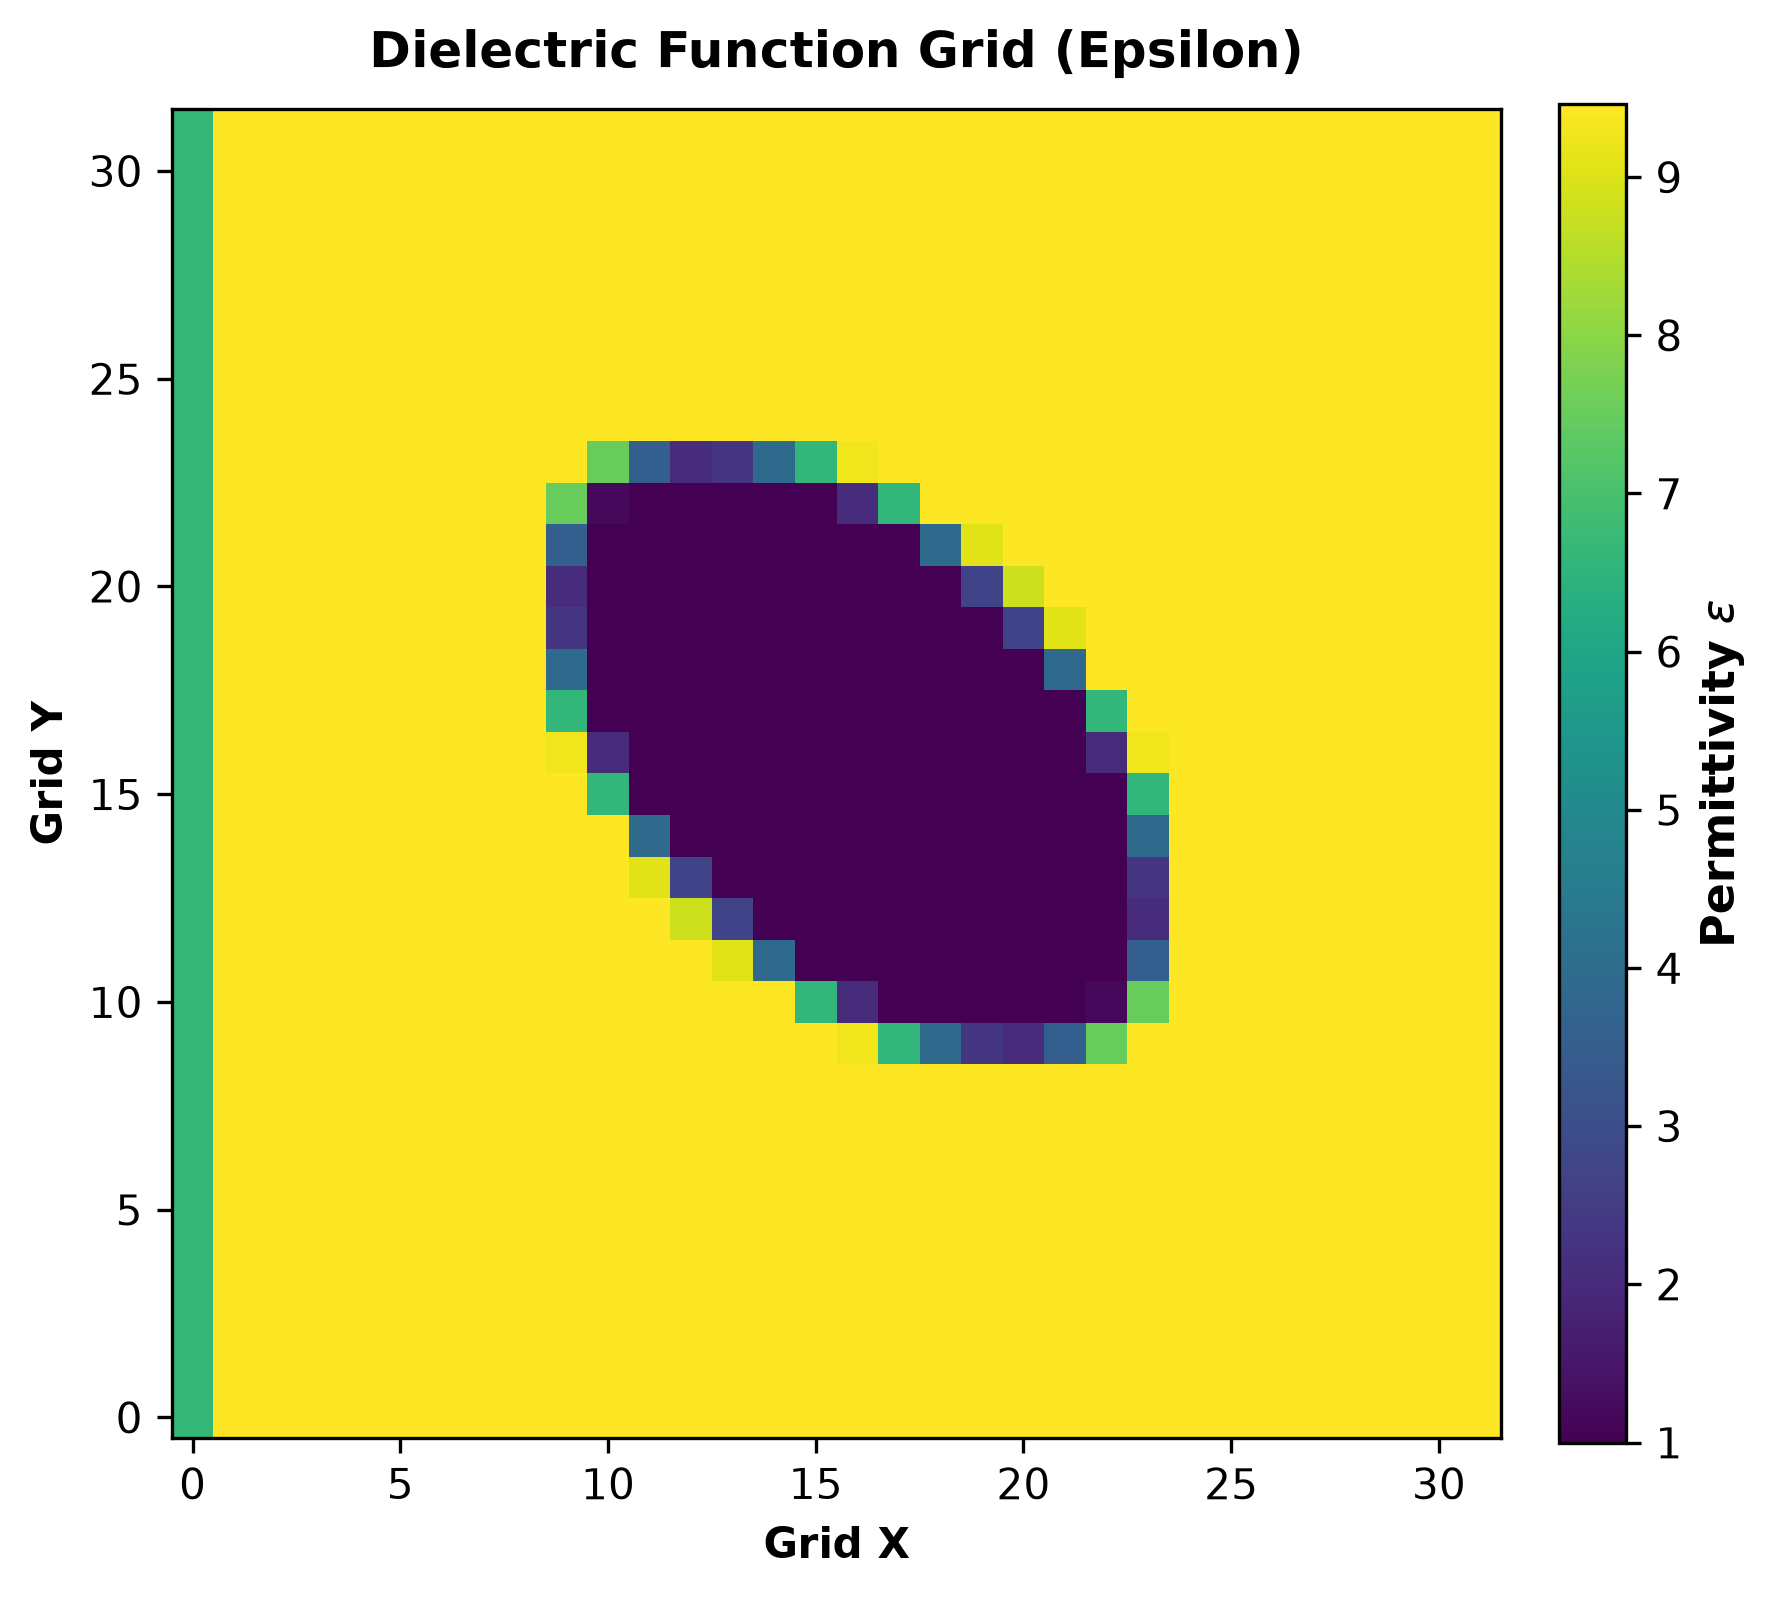
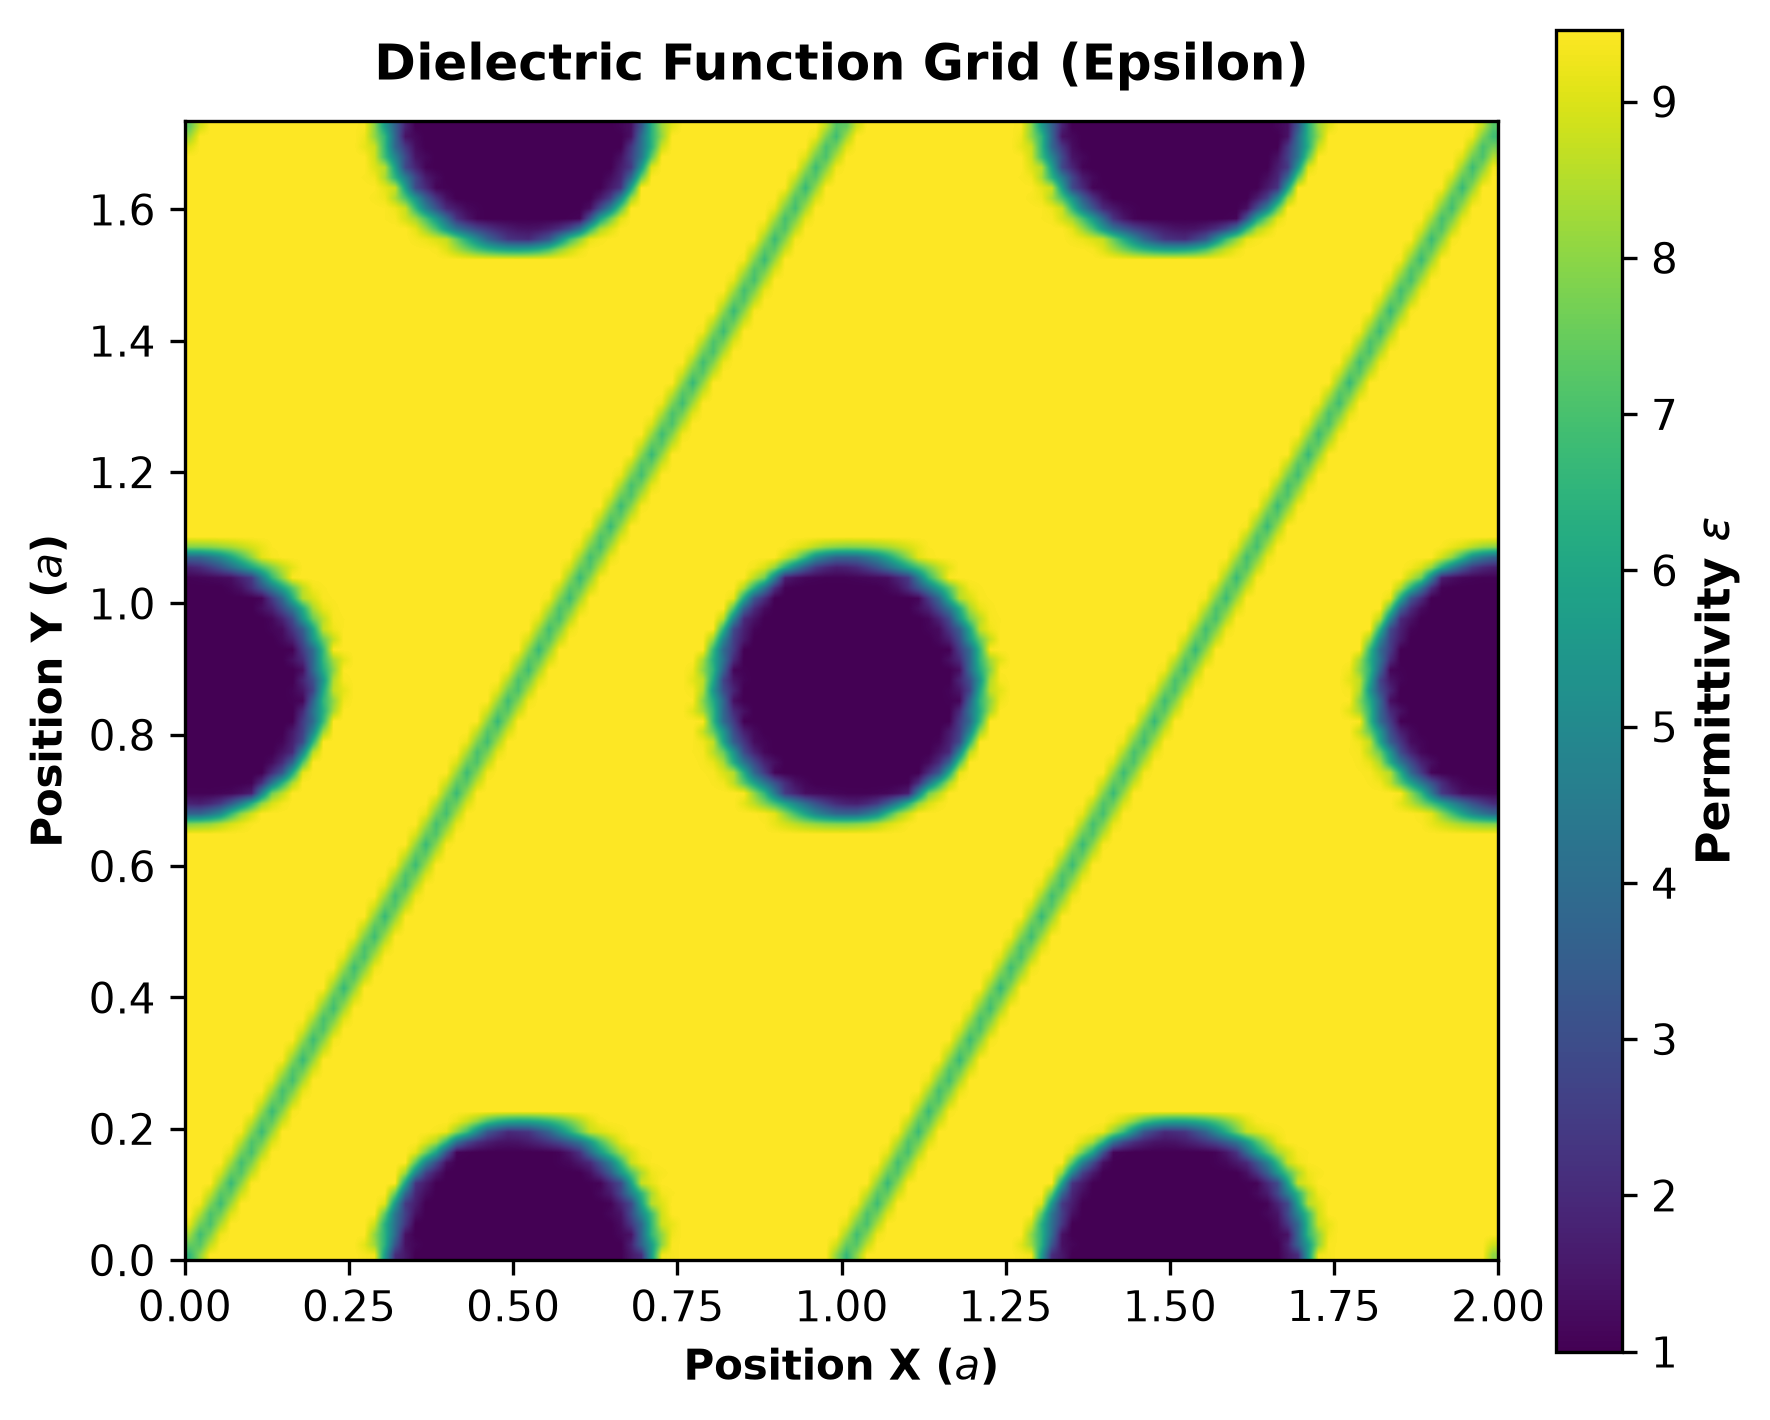
fix(v2): enforce physical Cartesian aspect ratio and 2x2 supercell tiling in plot_epsilon

diff --git a/src/phc_nzi/plotter.py b/src/phc_nzi/plotter.py
@@ -150,6 +150,8 @@ def plot_epsilon(
     output_path: Optional[Union[str, os.PathLike]] = "epsilon_map.png",
     rectify: bool = True,
     resolution: int = 64,
+    periods_x: int = 1,
+    periods_y: int = 1,
     slice_idx: Optional[int] = None,
     cmap: str = "viridis",
     title: str = "Dielectric Function Grid (Epsilon)",
@@ -169,6 +171,10 @@ def plot_epsilon(
         Whether to run mpb-data to geometrically rectify non-orthogonal/hexagonal grids to Cartesian coordinates.
     resolution : int, default 64
         Sampling resolution for grid rectification (grid points per period).
+    periods_x : int, default 1
+        Number of unit cell periods to output along x.
+    periods_y : int, default 1
+        Number of unit cell periods to output along y.
     slice_idx : int, optional
         Z-plane slice index for 3D grids. Defaults to center slice.
     cmap : str, default 'viridis'
@@ -189,12 +195,18 @@ def plot_epsilon(
     if rectify and not h5_file.stem.endswith("-rectified"):
         try:
             from .rectifier import rectify_h5_data
-            h5_file = rectify_h5_data(h5_file, resolution=resolution, rectangular=True)
+            h5_file = rectify_h5_data(
+                h5_file,
+                resolution=resolution,
+                rectangular=True,
+                periods_x=periods_x,
+                periods_y=periods_y
+            )
         except Exception as e:
             print(f"Note: Grid rectification fallback: {e}")
 
     with h5py.File(h5_file, "r") as f:
-        key = list(f.keys())[0]
+        key = "data" if "data" in f else ("epsilon.xx" if "epsilon.xx" in f else list(f.keys())[0])
         data = np.array(f[key])
 
     # Extract 2D slice if 3D array
@@ -207,15 +219,18 @@ def plot_epsilon(
     else:
         raise ValueError(f"Unsupported array dimensions ({data.ndim}D) in HDF5 file")
 
+    Nx, Ny = data_2d.shape
+    extent = [0, periods_x, 0, (Ny / Nx) * periods_x]
+
     fig, ax = plt.subplots(figsize=(6, 5.5), dpi=dpi)
-    im = ax.imshow(data_2d.T, origin="lower", cmap=cmap, interpolation="nearest")
+    im = ax.imshow(data_2d.T, origin="lower", extent=extent, cmap=cmap, interpolation="bilinear", aspect="equal")
 
     cbar = fig.colorbar(im, ax=ax, fraction=0.046, pad=0.04)
     cbar.set_label(r"Permittivity $\epsilon$", fontsize=11, fontweight="bold")
 
     ax.set_title(title, fontsize=12, fontweight="bold", pad=10)
-    ax.set_xlabel("Grid X", fontsize=10, fontweight="bold")
-    ax.set_ylabel("Grid Y", fontsize=10, fontweight="bold")
+    ax.set_xlabel("Position X ($a$)", fontsize=10, fontweight="bold")
+    ax.set_ylabel("Position Y ($a$)", fontsize=10, fontweight="bold")
     fig.tight_layout()
 
     if output_path is not None:

diff --git a/src/phc_nzi/runner.py b/src/phc_nzi/runner.py
@@ -135,11 +135,16 @@ def run_hpc(
 
             # 2. Auto-plot dielectric epsilon grid if .h5 file exists
             for h5_candidate in wd_path.glob("*-epsilon.h5"):
-                plot_epsilon(
-                    h5_path=h5_candidate,
-                    output_path=wd_path / "epsilon_map.png"
-                )
-                break
+                if not h5_candidate.stem.endswith("-rectified"):
+                    plot_epsilon(
+                        h5_path=h5_candidate,
+                        output_path=wd_path / "epsilon_map.png",
+                        rectify=True,
+                        resolution=64,
+                        periods_x=2,
+                        periods_y=2
+                    )
+                    break
         except Exception as e:
             print(f"Note: Automatic plot generation notice: {e}")
 
